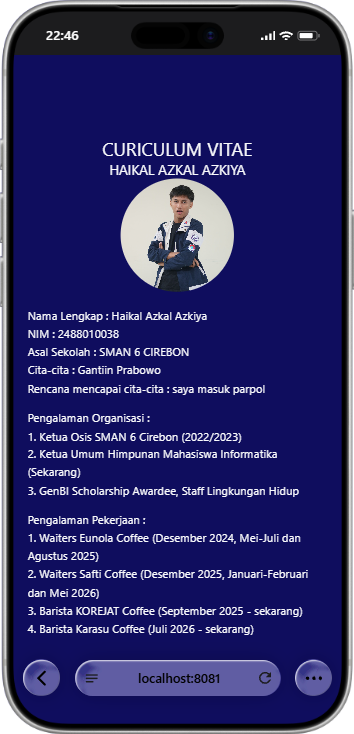
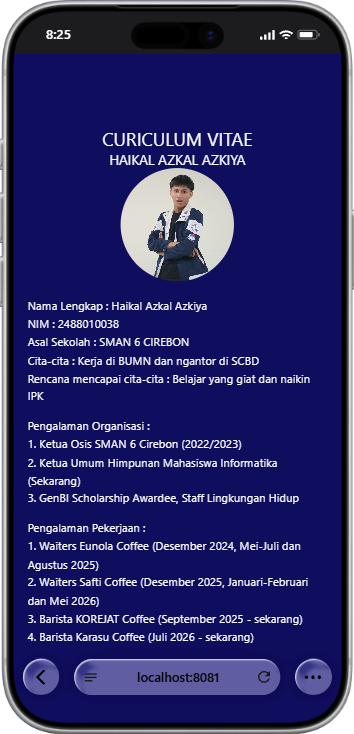
update Laporan-Praktikum-2.md

diff --git a/Pemrograman Mobile/Pertemuan-2/Laporan-Praktikum-2.md b/Pemrograman Mobile/Pertemuan-2/Laporan-Praktikum-2.md
@@ -55,4 +55,4 @@ Mahasiswa mampu:
 - Cita-cita
 - Rencana mencapai cita-cita
 
-![alt text](image-5.png)
+![alt text](image-3.png)
